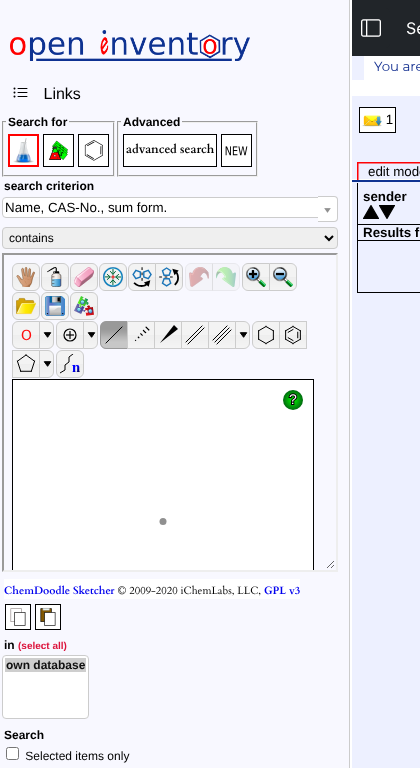
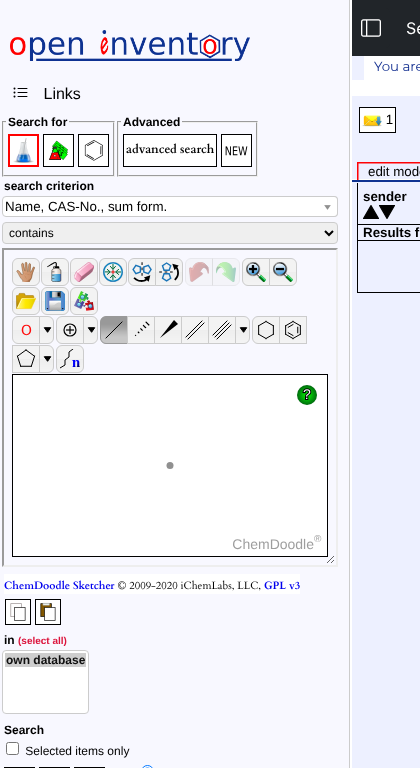
Sidebar: ChemDoodle fits its frame (no inner scrollbars), criterion box arrow matches the field
From the lab's screenshot (taken before the earlier fixes):
- Two vertical scrollbars, one inside ChemDoodle: the sketcher page was
  ~420px tall in its 319px iframe (toolbar + canvas of innerHeight-32,
  inside a fixed jQuery UI resize wrapper), a nested scroll area under
  the pointer; and the canvas had a fixed width, so narrower frames
  scrolled sideways. In the sidebar the sketcher is now created without
  the resize handle and fitSketcher() sizes the canvas to the frame,
  again on every frame resize.
- The scombobox field was inline, so its box (and the absolutely
  positioned dropdown arrow, height 100%) was taller than the field;
  display:block makes field, box and arrow the same height.

Claude-Session: https://claude.ai/code/session_013hgKigKUdPFkBpVA2JDvkS

diff --git a/ChemDoodle/php/sketcher.php b/ChemDoodle/php/sketcher.php
@@ -14,16 +14,18 @@
     <script type="text/javascript">
         // Khoi: in the sidebar the sketcher is as wide as the sidebar, and ChemDoodle zooms the drawing on every wheel turn,
         // so the sidebar could not be scrolled down to the search buttons. There, the wheel scrolls the sidebar; Ctrl/Cmd + wheel zooms.
+        var inSidebar = false;
         try {
-            if (parent!==self && parent.name=="sidenav") {
-                window.addEventListener("wheel", function(e) {
-                    if (!e.ctrlKey && !e.metaKey) {
-                        e.stopPropagation(); // before ChemDoodle's handler on the canvas, which would zoom and cancel the scrolling
-                    }
-                }, true);
-            }
+            inSidebar = (parent!==self && parent.name=="sidenav");
         } catch (e) {
             // parent from another origin: leave ChemDoodle's behaviour
+        }
+        if (inSidebar) {
+            window.addEventListener("wheel", function(e) {
+                if (!e.ctrlKey && !e.metaKey) {
+                    e.stopPropagation(); // before ChemDoodle's handler on the canvas, which would zoom and cancel the scrolling
+                }
+            }, true);
         }
 
         // Khoi: at least 200x200, e.g. when created while the sidebar is hidden (0 px wide); a negative size broke the canvas
@@ -31,7 +33,7 @@
                             useServices: false,
                             oneMolecule: <?php echo($_REQUEST["mode"] != "rxn" ? "true" : "false"); ?>,
                             includeQuery:false,
-                            resizable:true,
+                            resizable:!inSidebar, // Khoi: in the sidebar the canvas is fitted to the frame (fitSketcher), no resize handle
                             requireStartingAtom: false,    // Felix 2022-02-20 / Khoi: "false" so user can draw anywhere on canvas. Read more here:https://web.chemdoodle.com/tutorial/2d-structure-canvases/sketcher-canvas#options
                         });
 
@@ -54,6 +56,28 @@
         // because we do not load any content, we need to repaint the sketcher, otherwise we would just see an empty area with the toolbar
         // however, you can instead use one of the Canvas.load... functions to pre-populate the canvas with content, then you don't need to call repaint
         sketcher.repaint();
+
+        // Khoi: in the sidebar, fit the canvas into this frame: toolbar and canvas taller or wider than the frame gave it scrollbars of its own,
+        // a second scroll area under the pointer. Again when the frame changes size (wider sidebar for structure search, sidebar shown again).
+        function fitSketcher() {
+            var canvas = document.getElementById("sketcher");
+            if (!canvas || getInnerWidth() < 100) { // hidden sidebar
+                return;
+            }
+            var border = canvas.offsetWidth - canvas.clientWidth;
+            var w = Math.max(getInnerWidth() - 16 - border, 150); // body margin 8px
+            if (w != sketcher.width) {
+                sketcher.resize(w, sketcher.height); // the toolbar wraps with the frame width, so its height is known after this
+            }
+            var h = Math.max(getInnerHeight() - canvas.getBoundingClientRect().top - 8 - border, 120);
+            if (h != sketcher.height) {
+                sketcher.resize(sketcher.width, h);
+            }
+        }
+        if (inSidebar) {
+            fitSketcher();
+            window.addEventListener("resize", fitSketcher);
+        }
     </script>
 </body>
 

diff --git a/style.css.php b/style.css.php
@@ -379,6 +379,10 @@ if (($_REQUEST["style"]??null)=="sidenav") {
 		max-width: none !important;
 		margin: 1px 0 4px 0 !important; /* lib/jquery.scombobox.min.css (loaded later) has margin: 5px */
 	}
+	.scombobox .scombobox-display {
+		display: block; /* the box is then exactly as tall as the field, and so is its dropdown arrow (height: 100% of the box) */
+		height: auto;
+	}
 ":"")."
 
 	// input[type=text] {

diff --git a/docs/upgrade/ISSUE_bs5_nav.md b/docs/upgrade/ISSUE_bs5_nav.md
@@ -295,6 +295,23 @@ Measured on the old code (`edd15d1`) at 657 px:
 
 ![before: narrow criterion box](img/bs5nav_form_before.png) ![after: same width](img/bs5nav_form_after.png)
 
+**From the lab's screenshot and screen recording** (both made before these fixes; sidebar about 290 px wide):
+
+- **Recording.** In structure search, scrolling the sidebar down snaps back to the top within about a second, again and again. This is the structure-mode pin flicker fixed in `321f880`. With ChemDoodle: 0 backward jumps, 0 pin flips.
+- **(a) Two vertical scrollbars, one inside ChemDoodle.**
+  - Cause: the sketcher page (`sketcher.php`, quirks mode) was 417–421 px tall in its 319 px iframe: four toolbar rows plus a canvas of `innerHeight − 32`. With `resizable:true`, ChemDoodle also puts the canvas in a jQuery UI `.ui-wrapper` of fixed size. That makes a nested scroll area under the pointer.
+  - Fix: in the sidebar, the sketcher is created without the resize handle. `fitSketcher()` sizes the canvas to the frame's width and to the height left under the toolbar, and fits it again whenever the frame changes size (wider sidebar for structure search, sidebar shown again).
+  - Result: no scrollbar inside the sketcher at 262, 290 or 350 px (page = frame, 0 × 0 px overflow).
+- **(b) Horizontal scrollbar.**
+  - Cause: the canvas had a fixed width taken from the frame when it was created (e.g. 298 px), so in a narrower frame it overflowed sideways (310 px wide content in a 275 px frame at a 290 px sidebar).
+  - The same fit fixes it. The sidebar page itself has no horizontal overflow at 262, 290 or 350 px.
+- **(c) Criterion box and its arrow do not match.**
+  - Cause: the scombobox's text field is an inline element, so its box comes out taller than the field (26 px against 21 px). The dropdown arrow is positioned at `height: 100%` of that box, so it ended up taller than the field and 1 px off (the lab saw a ~40×35 grey box next to a ~30 px field on Windows).
+  - Fix: the field is now `display: block`, so the box is exactly as tall as the field and so is the arrow (field 256×21 at y 196, arrow 20×21 at y 196).
+  - Criterion, operator and text box are 256 px wide, 21–22 px tall.
+
+![after: ChemDoodle fitted at a 290 px sidebar](img/bs5nav_chemdoodle_after_290.png)
+
 **Other checks:**
 - The 100-run scroll sweep (text and structure search, now with ChemDoodle) still finds 0 runs with flicker.
 - The sidebar button tests still pass, in the modern and classic UI.

diff --git a/VERSION.md b/VERSION.md
@@ -13,7 +13,8 @@
 - **Modern UI sidebar**: hiding it now hides it completely instead of leaving a 35px strip with a clipped piece of the search form. One button (sidebar icon) at the left of the dark top bar hides and shows it; in the lab journal, which has no top bar, the page's own bar has that button. The state is remembered per user, it follows the frame border when dragged, and the button is keyboard-usable with `aria-expanded`. Classic UI unchanged.
 - **Sidebar no longer flickers when scrolling to the bottom** (structure search and text search): the "scroll, then pin the search box" code took the box out of the page, the page got shorter and scrolled back, unpinning it again. It now keeps the box's place, and never pins the structure editor.
 - **ChemDoodle in the sidebar**: the mouse wheel over the structure editor scrolls the sidebar instead of zooming the drawing (Ctrl/Cmd + wheel zooms); before, the sidebar could hardly be scrolled down to the search buttons. Structure search widens the sidebar to 350 px again so the editor fits (lost in the 2022 merge); a hidden sidebar stays hidden.
-- **Search form**: the search criterion box is as wide as the boxes below it (modern UI).
+- **ChemDoodle in the sidebar** also fits its frame now: no second scrollbar inside the editor and no horizontal scrollbar at any sidebar width.
+- **Search form**: the search criterion box is as wide and as tall as the boxes below it, with its dropdown arrow inside it (modern UI).
 
 ### 2026-10-29
 
